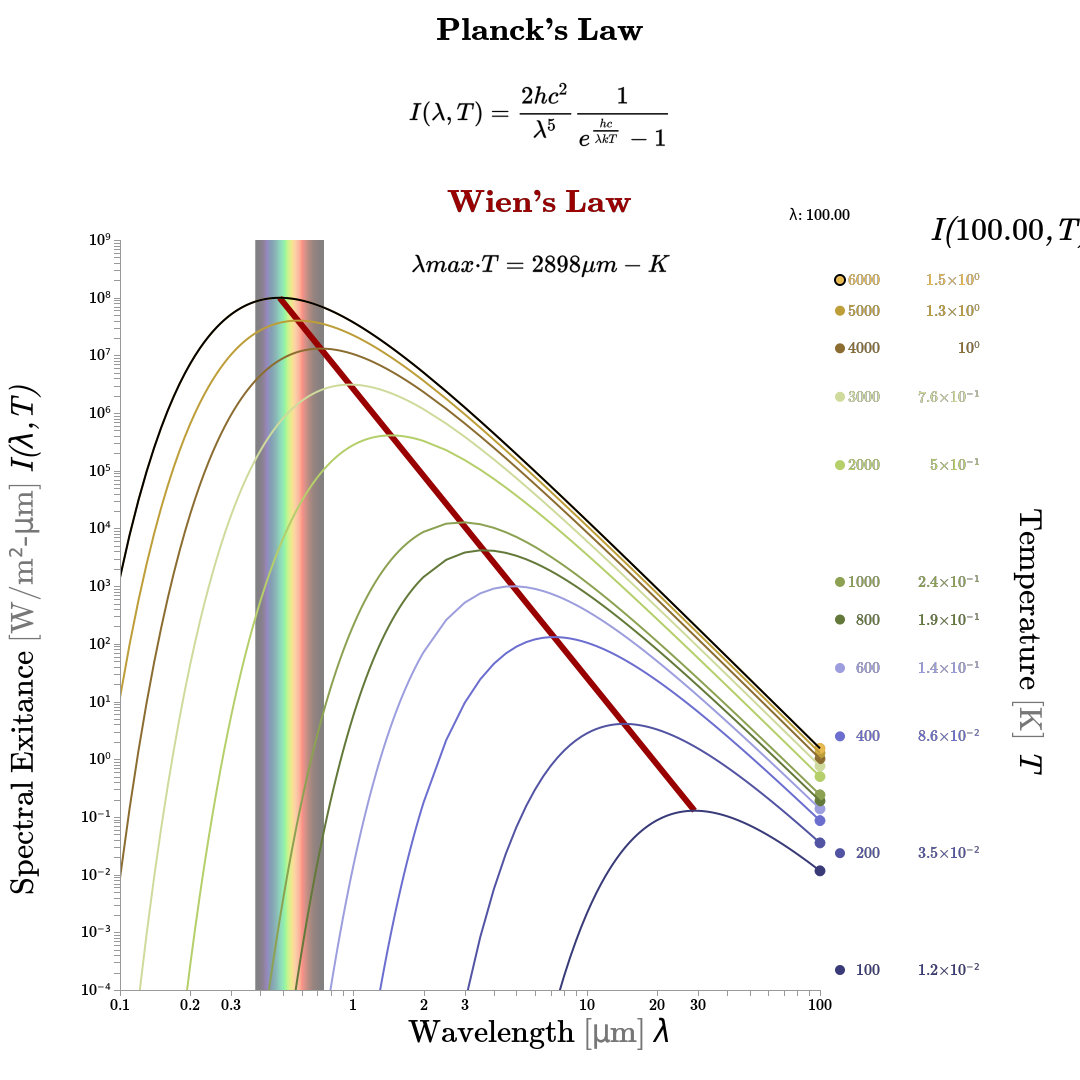
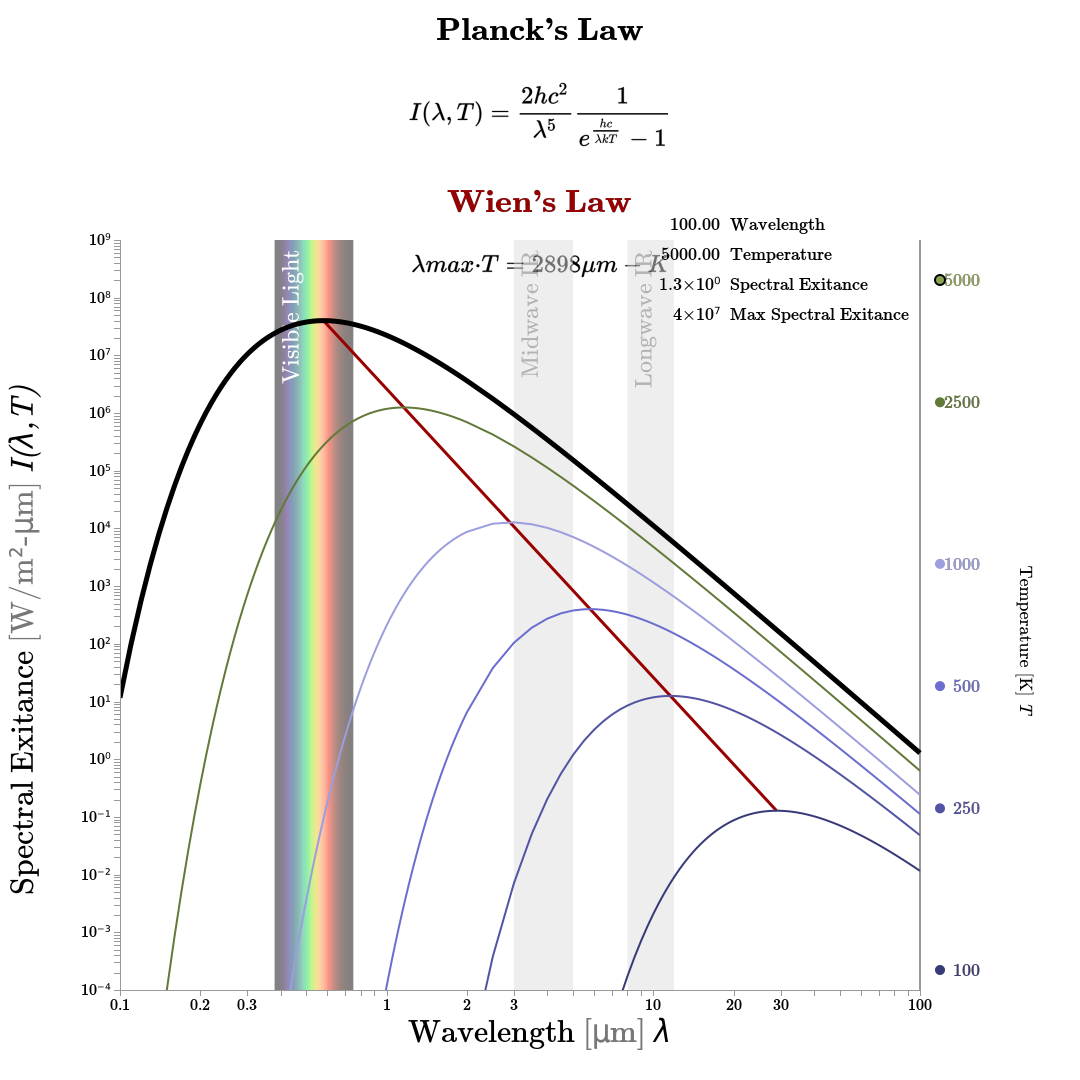
fixing wavelenght arrows

diff --git a/wavelengths.js b/wavelengths.js
@@ -119,7 +119,7 @@
             return [WAVELENGTH, convert(WAVELENGTH)];
           });
           plots.selectAll(".solution.interactive").data(scaleSolutions).call(function(solutionLabel) {
-            return solutionLabel.enter().append("g").classed({
+            solutionLabel.enter().append("g").classed({
               solution: true,
               interactive: true
             }).append("line").style({
@@ -141,14 +141,18 @@
                 return "url(#end-arrow-" + (scales.color(i)) + ")";
               }
             });
-          }).attr({
-            transform: function(d, i) {
-              if (i % 2 === 0) {
-                return "translate(" + padding.left + ", " + (scales.y[i](d[1])) + ")";
-              } else {
-                return "translate(" + (scales.x.range()[1]) + ", " + (scales.y[i](d[1])) + ")";
+            return solutionLabel.attr({
+              transform: function(d, i) {
+                var y;
+                y = scales.y[i](d[1]);
+                y = Number.isNaN(y) ? 0 : y;
+                if (i % 2 === 0) {
+                  return "translate(" + padding.left + ", " + y + ")";
+                } else {
+                  return "translate(" + (scales.x.range()[1]) + ", " + y + ")";
+                }
               }
-            }
+            });
           }).select("text").text(function(d, i) {
             if (i === 3) {
               return expwn(d[1]);
